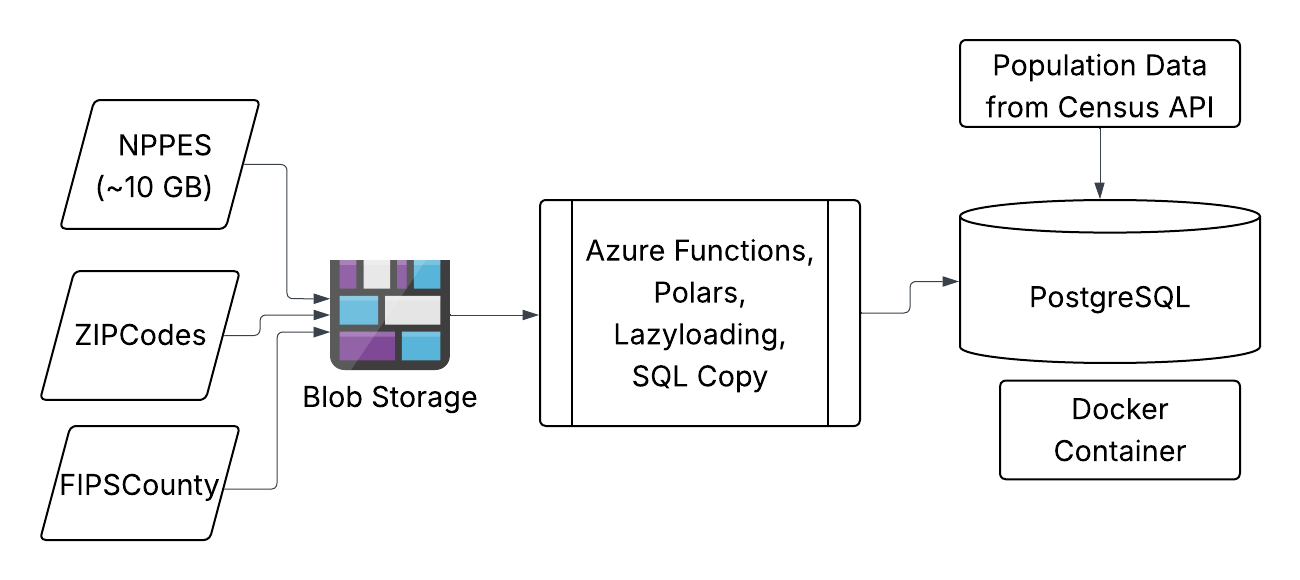
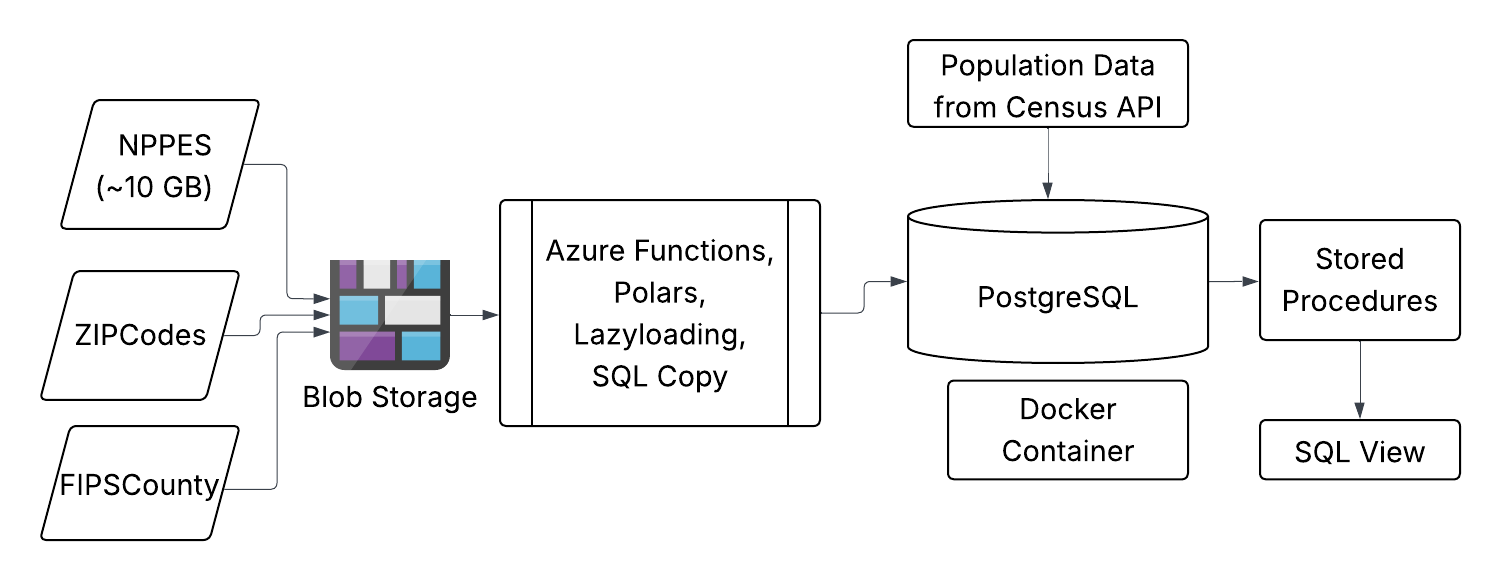
fixed typos and added to figure

diff --git a/README.md b/README.md
@@ -1,10 +1,10 @@
 # NPPES Healthcare Provider Analysis Project
 
-A comprehensive dat processing pipeline for analyzing healthcare providers across US counties using the National Plan and Provider Enumeration System (NPPES) data.
+A comprehensive data processing pipeline for analyzing healthcare providers across US counties using the National Plan and Provider Enumeration System (NPPES) data.
 
 ## 🎯 Project Overview
 
-This project processes and analyzes healthcare provider data to identify the distribution and types of healthcare providers in each US county. The solution includes data extraction, transformation, loading (ETL), and county-level aggregation with population data integration.
+This project processes and analyzes healthcare provider data to identify the distribution and types of healthcare providers in each US county. The solution includes data extraction, transformation, loading (ETL), and county-level aggregation with population data.
 
 ## 🏗 Architecture
 
